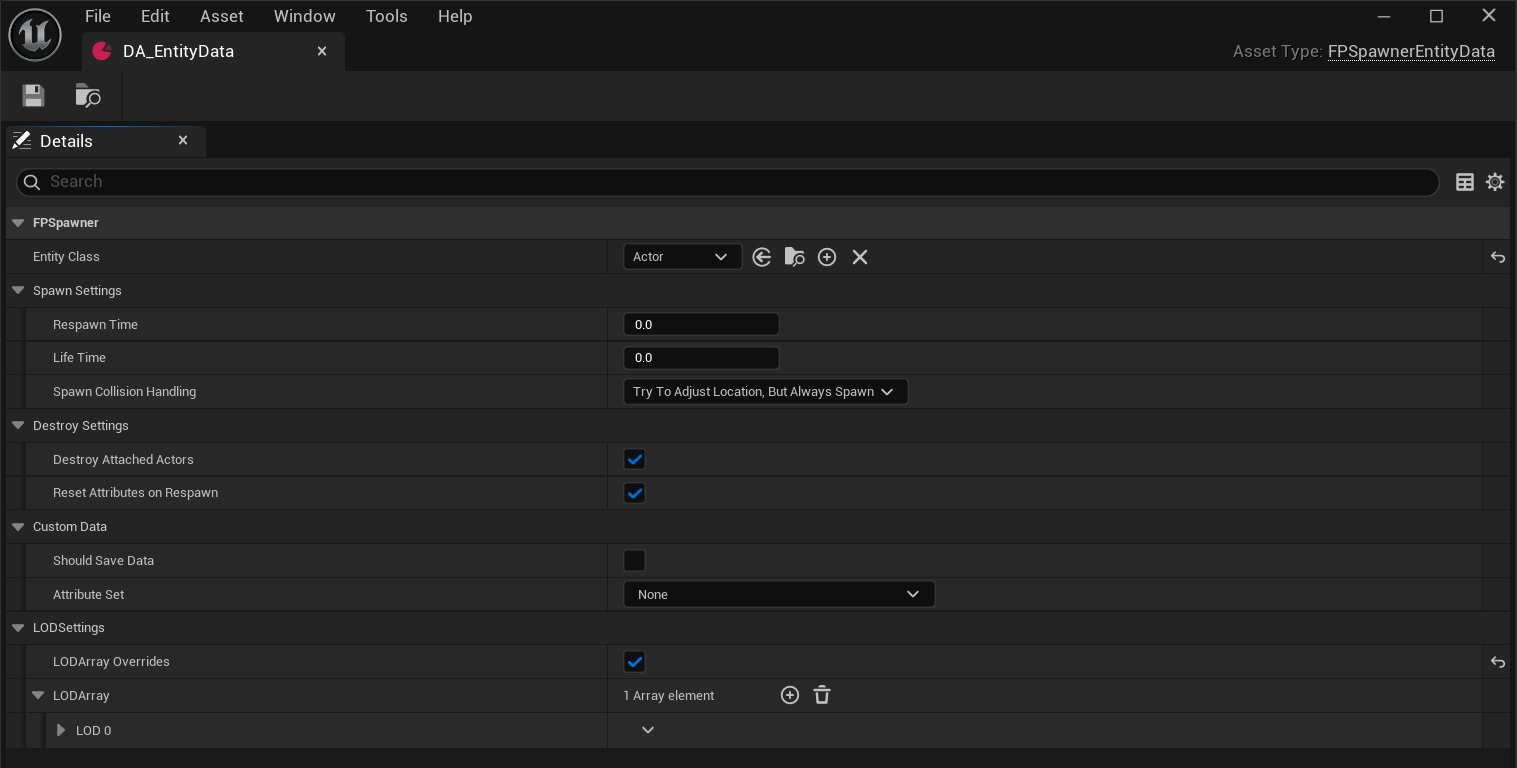
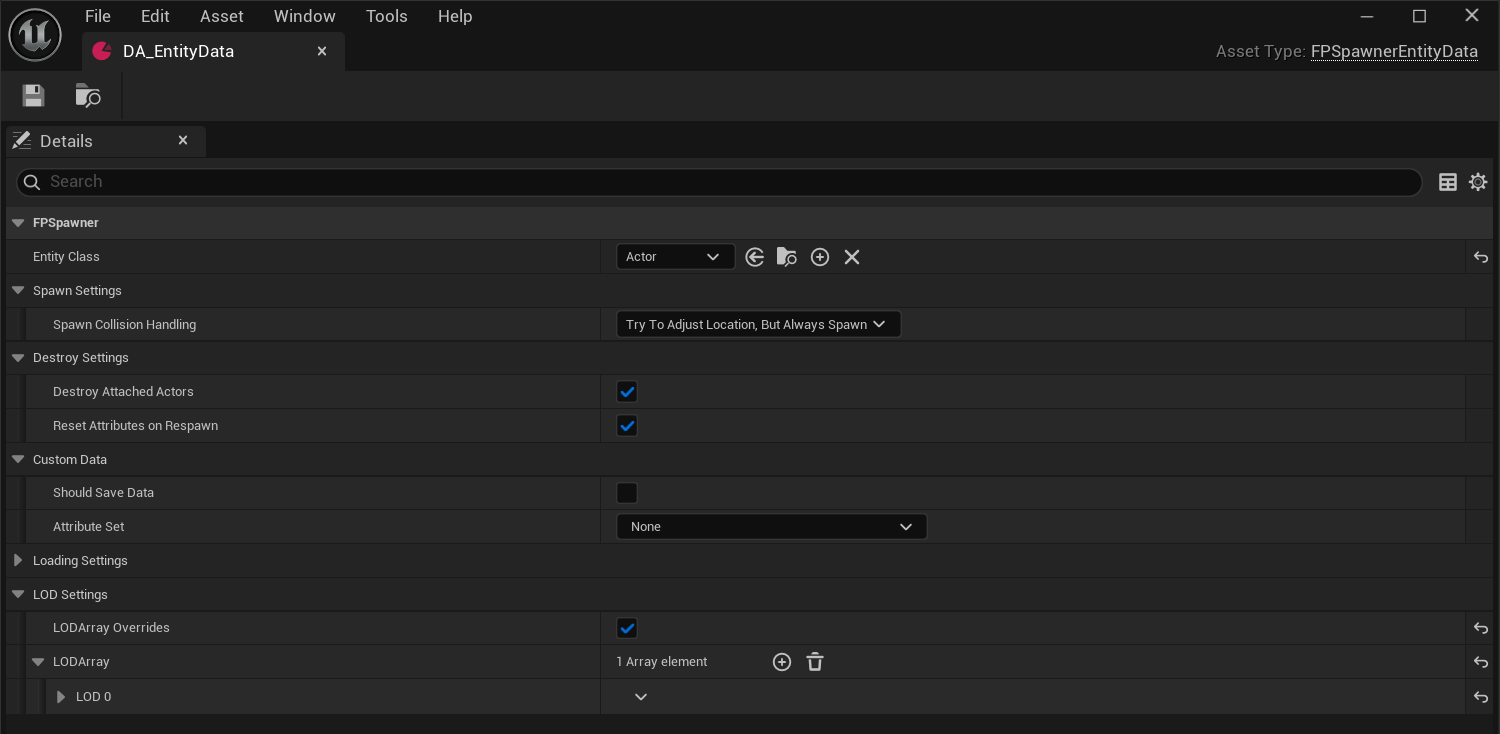
优化加载逻辑

diff --git a/README.md b/README.md
@@ -129,8 +129,8 @@ Copyright FirePlume, All Rights Reserved. Email: fireplume@126.com
 
 ![FPSpawnerSystem_QuickStart_6](https://github.com/FirePlume126/FP_SpawnerSystem/blob/main/Images/FPSpawnerSystem_QuickStart_6.png)
 
-[实体LOD](#fpspawnersystem_entitylod)仅影响本地客户端性能。如需提升整体游戏性能，建议在[实体数据管理器](#fpspawnersystem_entitydatamanager)的[生成器设置](#fpspawnersystem_spawnersettings)中合理配置参数。
-适当调整可在保证视觉体验的同时显著优化性能，但可能会影响加载范围或响应速度。
+[实体LOD](#fpspawnersystem_entitylod)仅影响本地客户端性能。如需提升整体游戏性能，建议在[实体数据管理器](#fpspawnersystem_entitydatamanager)的[生成器设置](#fpspawnersystem_spawnersettings)中合理配置参数，
+也可以通过[实体数据](#fpspawnersystem_entitydata)中设置`LoadingScaleFactor`来缩小特定实体的加载范围。合理配置参数可在保证基本视觉体验的同时显著提升性能。
 
 <a name="fpspawnersystem_fpspawnersystemeditor"></a>
 ### FPSpawnerSystemEditor
@@ -480,8 +480,6 @@ public:
 |属性名称|类型|描述|
 |:-:|:-:|:-:|
 |bAutoInitSpawner|`bool`|自动初始化[生成器管理子系统](#fpspawnersystem-managersubsystem)，为false时需要调用[函数库](#fpspawnersystem-functionlibrary)的函数`InitSpawnerSubsystem()`初始化[生成器管理子系统](#fpspawnersystem-managersubsystem)|
-|bSyncEntityWithGrid |`bool`|实体的加载/卸载完全跟随实体所属的网格单元|
-|bLoadGridsInDistanceOrder |`bool`|按距离顺序加载网格，优先加载与激活源处于相同高度层级的网格，再按水平距离由近到远排序加载|
 |CellSize|`float`|分区网格的单元格大小|
 |LoadingRange|`float`|加载范围，[激活源](#fpspawnersystem_activationsource)球形范围接触到网格单元时激活它，加载此范围内的实体|
 |UnloadingRange|`float`|卸载范围，[激活源](#fpspawnersystem_activationsource)球形范围远离网格单元时卸载它，卸载此范围外卸载实体|
@@ -614,7 +612,7 @@ public:
 * **分区网格管理器**
 
 管理[分区网格](#fpspawnersystem_runtimecell)，根据[激活源](#fpspawnersystem_activationsource)位置通过[分区网格计算](#fpspawnersystem_partitiongridcalculation)异步线程计算出需要加载/卸载的网格，
-然后基于[激活源](#fpspawnersystem_activationsource)位置进一步计算实体的新状态，可以通过[生成器设置](#fpspawnersystem_spawnersettings)的`bSyncEntityWithGrid`让实体的加载/卸载完全跟随实体所属的网格单元。
+优先加载与激活源处于相同高度层级的网格，再按水平距离由近到远排序加载。最后基于[激活源](#fpspawnersystem_activationsource)位置进一步计算实体的新状态。
 
 * 使用指南
 
@@ -699,6 +697,7 @@ graph TD
 |:-:|:-:|:-:|
 |EntityClass|`TSoftClassPtr<AActor>`|实体类，添加`Actor`时切换成`Actor`实体数据，添加`Pawn`时切换成`Pawn`实体数据|
 |MeshDatas|`TArray<FFPSpawnerMeshData>`|网格数据，不为空时切换成`Mesh`实体数据|
+|LoadingScaleFactor|`float`|加载缩放比例，等比调整[实体数据管理器](#fpspawnersystem_entitydatamanager)中的加载范围(`LoadingRange`)、卸载范围(`UnloadingRange`)和排除范围(`ExclusionRange`)对此实体的影响|
 |RespawnTime|`float`|重生时间，等于0时不重生，外部调用AActor::Destroy()或通过[函数库](#fpspawnersystem-functionlibrary)的函数`TryModifyEntityManagerState()`销毁`Actor`时，重新生成实体的时间间隔|
 |LifeTime|`float`|生存时间，等于0时不死亡，当激活源加载实体时，实体从生成到当前的时间间隔如果超过该值，则销毁实体。在激活源附近的实体不会因生存时间过长而被销毁|
 
@@ -738,7 +737,7 @@ graph TD
 |:-:|:-:|:-:|
 |AIControllerClass|`TSoftClassPtr<AAIController>`|AI控制器类，当`Pawn`没有AI控制器时，使用此类创建控制器|
 |BehaviorTree|`TSoftObjectPtr<UBehaviorTree>`|AI行为树|
-|bDestroyController|`bool`|AI角色是否删除AI控制器，如果不删除，下次复活或激活将继续使用此控制器；实体被停用或重置时会强制销毁|
+|bDestroyController|`bool`|AI角色是否删除控制器，控制器拥有`PlayerState`且`bDestroyController = false`时不删除控制器，下次复活或激活将继续使用此控制器，但实体被停用或重置时会强制销毁|
 
 <a name="fpspawnersystem_entityattributeset"></a>
 * **实体属性集**
@@ -1248,7 +1247,7 @@ bool bEnableLOD = true;
 
 // LOD数组，定义多个LOD级别，按距离控制实体行为
 UPROPERTY(config, EditAnywhere, meta = (EditCondition = "bEnableLOD"), Category = "Config|LOD Settings")
-FFPSpawnerLODArray LODArray = FFPSpawnerLODArray(false);
+FFPSpawnerLODArray LODArray;
 
 // LOD距离设置
 UPROPERTY(config, EditAnywhere, meta = (EditCondition = "bEnableLOD"), DisplayName = "LOD Distance", Category = "Config|LOD Settings")
@@ -1263,6 +1262,14 @@ int32 MaxScatterObjectsPerTick = 100;
 //  应用散布数据时，世界分区的散布网格单元大小，开启世界分区才有效
 UPROPERTY(config, EditAnywhere, meta = (ClampMin = 1), Category = "Config|Editor")
 uint32 InstancedMeshGridSize = 25600;
+
+// 调试网格，选中时隐藏，材质需添加PerInstanceCustomData[3]控制不透明蒙版
+UPROPERTY(config, EditAnywhere, Category = "Config|Editor|Debug")
+TSoftObjectPtr<UStaticMesh> DebugMesh = nullptr;
+
+// 调试网格颜色，需要在材质添加PerInstanceCustomData[0, 1, 2]控制颜色
+UPROPERTY(config, EditAnywhere, Category = "Config|Editor|Debug")
+FLinearColor DebugMeshColor = FLinearColor(1.0f, 0.0f, 0.0f);
 #endif
 ```
 以下为相关枚举结构体定义：
@@ -1274,14 +1281,6 @@ struct FFPSpawnerPartitionGridSettings
 	GENERATED_BODY()
 
 public:
-
-	// 实体的加载/卸载完全跟随实体所属的网格单元
-	UPROPERTY(EditAnywhere, Category = "FFPSpawner")
-	bool bSyncEntityWithGrid = false;
-
-	// 按距离顺序加载网格，优先加载与激活源处于相同高度层级的网格，再按水平距离由近到远排序加载
-	UPROPERTY(EditAnywhere, Category = "FFPSpawner")
-	bool bLoadGridsInDistanceOrder = false;
 
 	// 单元格大小
 	UPROPERTY(EditAnywhere, meta = (ClampMin = 1600.0, ForceUnits = "cm"), Category = "FFPSpawner")
